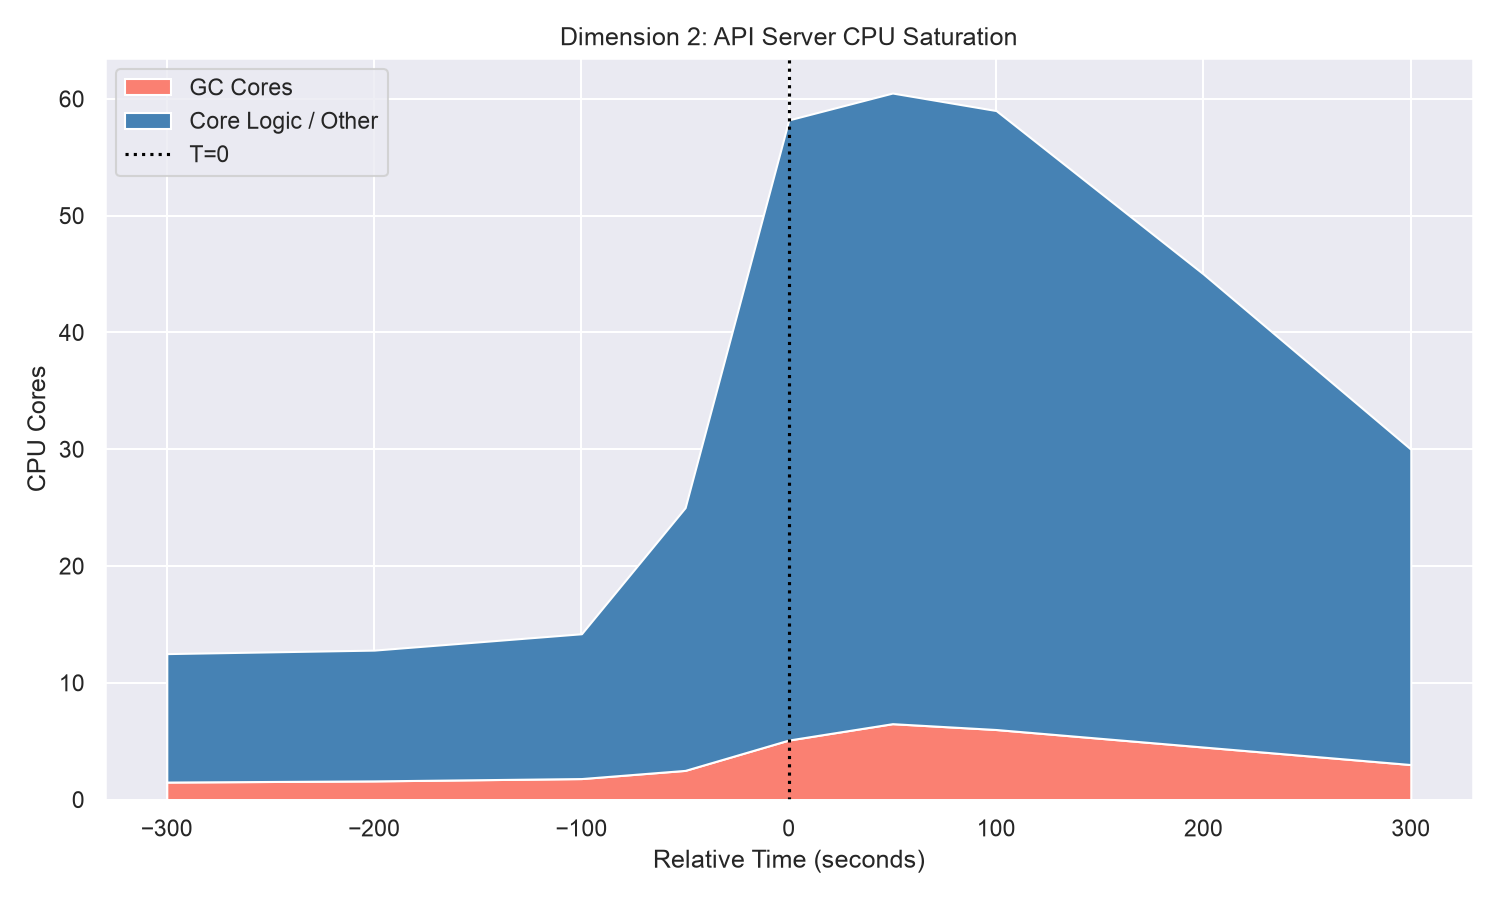
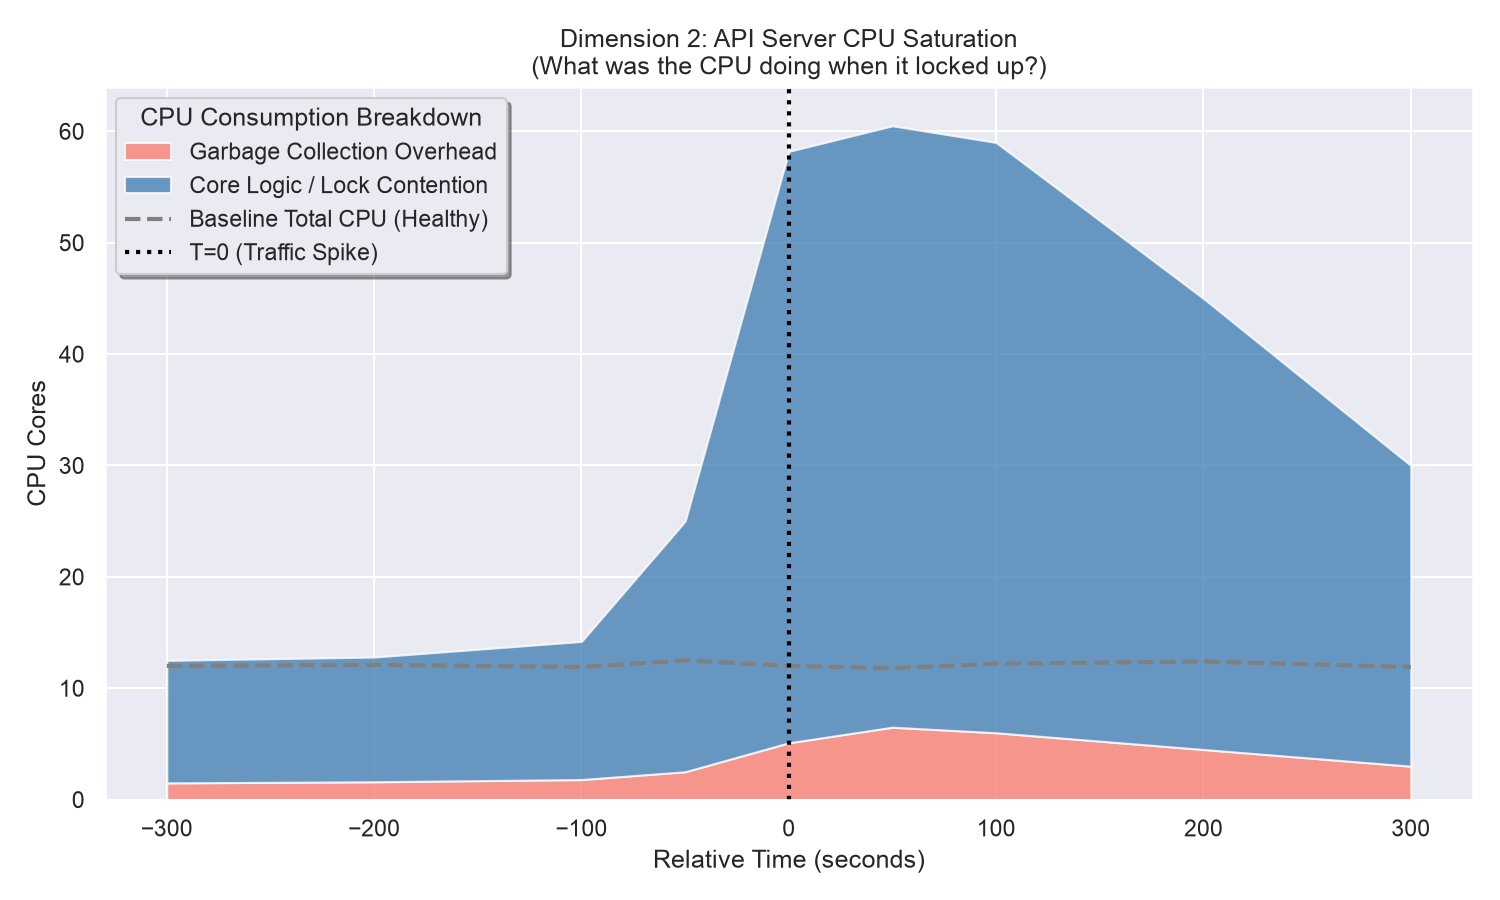
Update CPU saturation graph to include baseline and clearer labels

diff --git a/scripts/generate_dashboard.py b/scripts/generate_dashboard.py
@@ -61,19 +61,28 @@ def generate_cpu_plot(data, output_dir):
     
     total_cpu = np.array([tick["failed_run"].get("cpu_total_cores", 0) for tick in time_series])
     gc_cpu = np.array([tick["failed_run"].get("cpu_gc_cores", 0) for tick in time_series])
+    baseline_cpu = np.array([tick.get("baseline_run", {}).get("cpu_total_cores", 0) for tick in time_series])
     
     # Calculate non-GC CPU for the stack
     non_gc_cpu = total_cpu - gc_cpu
     non_gc_cpu = np.maximum(non_gc_cpu, 0) # ensure no negatives
 
-    fig, ax = plt.subplots()
-    ax.stackplot(times, gc_cpu, non_gc_cpu, labels=['GC Cores', 'Core Logic / Other'], colors=['salmon', 'steelblue'])
-    ax.axvline(0, color='black', linestyle=':', label='T=0')
+    fig, ax = plt.subplots(figsize=(10, 6))
+    ax.stackplot(times, gc_cpu, non_gc_cpu, labels=['Garbage Collection Overhead', 'Core Logic / Lock Contention'], colors=['salmon', 'steelblue'], alpha=0.8)
+    
+    if any(baseline_cpu):
+        ax.plot(times, baseline_cpu, color='gray', linestyle='--', linewidth=2, label='Baseline Total CPU (Healthy)')
+        
+    ax.axvline(0, color='black', linestyle=':', linewidth=2, label='T=0 (Traffic Spike)')
 
     ax.set_xlabel('Relative Time (seconds)')
     ax.set_ylabel('CPU Cores')
-    ax.legend(loc='upper left')
-    plt.title('Dimension 2: API Server CPU Saturation')
+    ax.set_ylim(0, 64) # Max cores
+    
+    # Place legend (the 'table' box) outside the plot if it's blocking data, or keep it upper left with a frame
+    ax.legend(loc='upper left', frameon=True, shadow=True, title="CPU Consumption Breakdown")
+    
+    plt.title('Dimension 2: API Server CPU Saturation\n(What was the CPU doing when it locked up?)')
     plt.tight_layout()
     plt.savefig(os.path.join(output_dir, 'dim2_cpu.png'))
     plt.close()